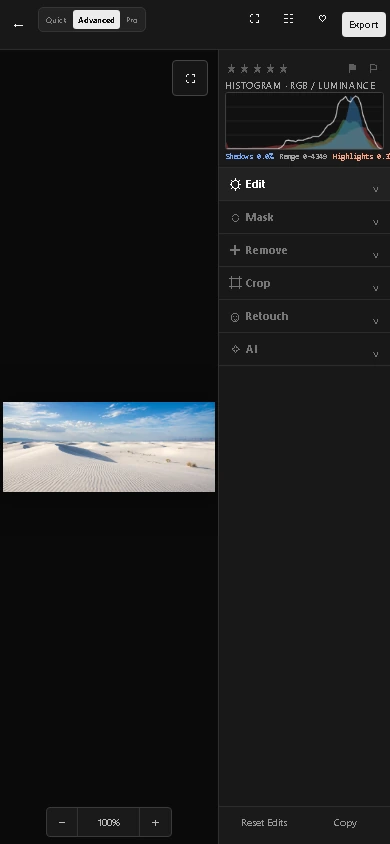
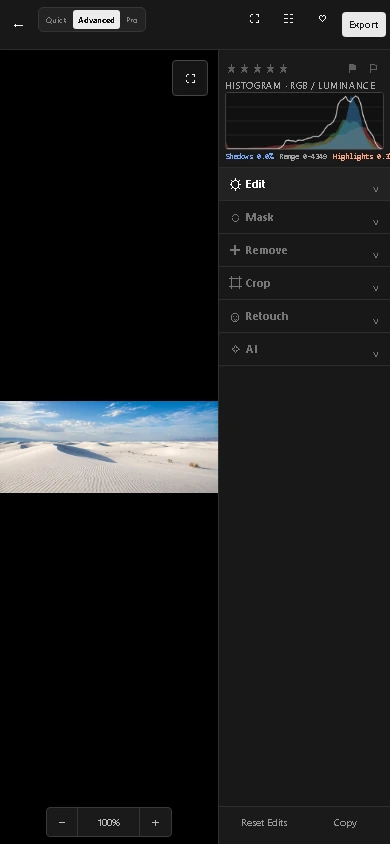
fix: make editor previews reliable in browser compositor

diff --git a/renderer.js b/renderer.js
@@ -8,7 +8,10 @@ async function decodeImage(blob){if(!blob)throw new Error('Photo data is unavail
 let renderFallbackNoticeFor=null;
 async function decodePhotoImage(blob){const primary=blob||photoBlob(currentPhoto);try{return await decodeImage(primary)}catch(primaryError){const fallback=currentPhoto?.thumbnailBlob;if(!fallback||fallback===primary)throw primaryError;try{const image=await decodeImage(fallback);if(renderFallbackNoticeFor!==currentPhoto?.id){renderFallbackNoticeFor=currentPhoto?.id;toast('Original preview unavailable — using the local thumbnail')}return image}catch{throw primaryError}}}
 function releaseImage(image){image?.close?.();if(image?.__darkroomObjectUrl)URL.revokeObjectURL(image.__darkroomObjectUrl)}
-function setEditorFallback(active){const stage=$('#photoViewport'),img=$('#editorFallbackImage');if(!stage||!img)return;stage.classList.toggle('preview-fallback',!!active);const source=photoBlob(currentPhoto);if(!active||!source){img.classList.remove('active');img.removeAttribute('src');img.dataset.photoId='';return}img.classList.add('active');if(img.dataset.photoId===currentPhoto.id)return;const photoId=currentPhoto.id;img.dataset.photoId=photoId;img.dataset.source='original';img.onerror=()=>{if(img.dataset.photoId!==photoId)return;if(img.dataset.source==='thumbnail'||!currentPhoto?.thumbnailBlob)return;img.dataset.source='thumbnail';img.src=blobUrl(currentPhoto,true)};img.src=blobUrl(currentPhoto,false)}
+function releaseRenderedPreview(img){if(img?._renderedUrl){URL.revokeObjectURL(img._renderedUrl);img._renderedUrl=''}}
+function setPreviewBackground(img,src){if(!img)return;if(src){img.style.backgroundImage=`url("${src}")`;img.style.backgroundSize='contain';img.style.backgroundPosition='center';img.style.backgroundRepeat='no-repeat';img.dataset.previewSrc=src}else{img.style.backgroundImage='none';img.dataset.previewSrc=''}}
+function setEditorFallback(active){const stage=$('#photoViewport'),img=$('#editorFallbackImage'),canvas=$('#editorCanvas');if(!stage||!img)return;stage.classList.toggle('preview-fallback',!!active);if(!active){releaseRenderedPreview(img);img.classList.remove('active');setPreviewBackground(img,'');img.dataset.photoId='';img.dataset.source='';if(canvas){canvas.style.removeProperty('visibility');canvas.style.removeProperty('background');delete canvas.dataset.renderedPreview}return}releaseRenderedPreview(img);if(canvas){canvas.style.visibility='hidden';canvas.style.background='transparent';delete canvas.dataset.renderedPreview}const source=photoBlob(currentPhoto);if(!source){img.classList.remove('active');setPreviewBackground(img,'');img.dataset.photoId='';return}img.classList.add('active');if(img.dataset.photoId===currentPhoto.id&&img.dataset.source==='original')return;const photoId=currentPhoto.id;img.dataset.photoId=photoId;img.dataset.source='original';setPreviewBackground(img,blobUrl(currentPhoto,false))}
+async function syncRenderedPreview(canvas){const stage=$('#photoViewport'),img=$('#editorFallbackImage'),photoId=currentPhoto?.id;if(!stage||!img||canvas?.id!=='editorCanvas'||!canvas.width||!canvas.height||!photoId)return;let blob=null;try{blob=await new Promise(resolve=>canvas.toBlob(resolve,'image/png'))}catch{}if(photoId!==currentPhoto?.id)return;releaseRenderedPreview(img);const src=blob?URL.createObjectURL(blob):canvas.toDataURL('image/png');if(blob)img._renderedUrl=src;const preload=new Image();preload.src=src;try{await preload.decode()}catch{}if(photoId!==currentPhoto?.id)return;img.dataset.photoId=photoId;img.dataset.source='rendered';setPreviewBackground(img,src);img.classList.add('active');stage.classList.remove('preview-fallback');canvas.dataset.renderedPreview='1';canvas.style.display='block';canvas.style.visibility='hidden';canvas.style.background='transparent';await new Promise(resolve=>requestAnimationFrame(()=>requestAnimationFrame(resolve)))}
 async function applySkyReplacement(source,e){if(!currentPhoto?.skyReplacementId)return source;const ref=photos.find(p=>p.id===currentPhoto.skyReplacementId);if(!ref)return source;const bmp=await decodeImage(photoBlob(ref)),sky=document.createElement('canvas');sky.width=source.width;sky.height=source.height;const sx=sky.getContext('2d',{alpha:false}),scale=Math.max(source.width/bmp.width,source.height/bmp.height),dw=bmp.width*scale,dh=bmp.height*scale;sx.drawImage(bmp,(source.width-dw)/2,(source.height-dh)/2,dw,dh);releaseImage(bmp);const ctx=source.getContext('2d',{alpha:false}),base=ctx.getImageData(0,0,source.width,source.height),sd=sx.getImageData(0,0,sky.width,sky.height).data,mask=DarkRoomEngine.smartMaskRaster(base.data,source.width,source.height,'sky'),opacity=DarkRoomEngine.clamp((e.skyReplacementOpacity??100)/100);for(let i=0;i<base.data.length;i+=4){const m=(mask.data[i/4]||0)/255*opacity;base.data[i]=DarkRoomEngine.mix(base.data[i],sd[i],m);base.data[i+1]=DarkRoomEngine.mix(base.data[i+1],sd[i+1],m);base.data[i+2]=DarkRoomEngine.mix(base.data[i+2],sd[i+2],m)}ctx.putImageData(base,0,0);return source}
 
 
@@ -32,8 +35,10 @@ function renderDiagnosticOverlay(){const overlay=$('#diagnosticOverlay'),base=$(
 
 function renderMaskOverlay(){const overlay=$('#maskOverlay'),base=$('#editorCanvas');if(!overlay||!base||!base.width)return;overlay.width=base.width;overlay.height=base.height;const x=overlay.getContext('2d'),mask=(currentPhoto?.localEdits||[]).find(m=>m.id===activeLocalId);x.clearRect(0,0,overlay.width,overlay.height);if(!mask||beforeMode||photoOnly)return;const w=Math.min(360,overlay.width),h=Math.max(1,Math.round(overlay.height*w/overlay.width)),small=document.createElement('canvas');small.width=w;small.height=h;const s=small.getContext('2d');s.drawImage(base,0,0,w,h);const src=s.getImageData(0,0,w,h).data,img=s.createImageData(w,h),palette={red:[235,65,90],green:[65,220,115],blue:[65,145,240],white:[240,240,240]},col=palette[localStorage.getItem('darkroom-mask-color')||'red']||palette.red;for(let yy=0;yy<h;yy++)for(let xx=0;xx<w;xx++){const i=(yy*w+xx)*4,r=src[i],g=src[i+1],b=src[i+2],l=(.2126*r+.7152*g+.0722*b)/255,v=DarkRoomEngine.maskValue(mask,xx/Math.max(1,w-1),yy/Math.max(1,h-1),r,g,b,l);img.data[i]=col[0];img.data[i+1]=col[1];img.data[i+2]=col[2];img.data[i+3]=Math.round(v*125)}s.putImageData(img,0,0);x.drawImage(small,0,0,overlay.width,overlay.height)}
 function drawMaskOverlay(){renderMaskOverlay()}
+const renderMaskOverlayBase=renderMaskOverlay;renderMaskOverlay=function(){renderMaskOverlayBase();const overlay=$('#maskOverlay'),mask=(currentPhoto?.localEdits||[]).find(m=>m.id===activeLocalId);overlay?.classList.toggle('has-content',!!mask&&!beforeMode&&!photoOnly)};
+const renderDiagnosticOverlayBase=renderDiagnosticOverlay;renderDiagnosticOverlay=function(){renderDiagnosticOverlayBase();const overlay=$('#diagnosticOverlay');overlay?.classList.toggle('has-content',!!diagnosticOverlay&&diagnosticOverlay!=='none'&&!photoOnly)};
 function updateCompositionOverlay(){const o=$('#compositionOverlay');if(!o)return;o.className='composition-overlay '+(compositionOverlay||'none')}
-function applyTransform(){const w=$('#canvasWrap');w.style.transform=`translate(${panX}px,${panY}px) scale(${zoom})`;$('#zoomLabel').textContent=Math.round(zoom*100)+'%'}
+function applyTransform(){const w=$('#canvasWrap');if(w)w.style.transform=zoom===1&&panX===0&&panY===0?'none':`translate(${panX}px,${panY}px) scale(${zoom})`;$('#zoomLabel').textContent=Math.round(zoom*100)+'%'}
 async function updateBeforeSplit(){const c=$('#beforeSplitCanvas'),range=$('#beforeSplitRange'),divider=$('#beforeSplitDivider');if(!c||!range||!divider)return;if(!beforeSplit||!currentPhoto){c.classList.remove('active');range.classList.add('hidden');divider.classList.add('hidden');return}const tmp=document.createElement('canvas');await renderCanvas(tmp,1400,true);const base=$('#editorCanvas');c.width=base.width;c.height=base.height;const x=c.getContext('2d',{alpha:false});x.drawImage(tmp,0,0,c.width,c.height);c.classList.add('active');range.classList.remove('hidden');divider.classList.remove('hidden');applyBeforeSplitClip()}
 function applyBeforeSplitClip(){const c=$('#beforeSplitCanvas'),d=$('#beforeSplitDivider');if(!c||!d)return;const p=Math.max(5,Math.min(95,beforeSplitPct));c.style.clipPath=`inset(0 ${100-p}% 0 0)`;d.style.left=p+'%'}
 function resetZoom(){zoom=1;panX=panY=0;applyTransform()}
@@ -52,7 +57,7 @@ renderCanvasNow=async function(canvas,maxSize=1400,forceOriginal=false){
     console.error('Render failed',error);
     if(photoId!==currentPhoto?.id)return;
     if(canvas?.id==='editorCanvas'&&await renderThumbnailFallback(canvas,maxSize)){
-      setEditorFallback(false);toast('Original preview unavailable — showing the local thumbnail');
+      await syncRenderedPreview(canvas);toast('Original preview unavailable — showing the local thumbnail');
     }else if(canvas?.id==='editorCanvas'){
       setEditorFallback(true);toast('Could not decode this image — showing the original preview');
     }
@@ -60,17 +65,17 @@ renderCanvasNow=async function(canvas,maxSize=1400,forceOriginal=false){
   }
   if(photoId!==currentPhoto?.id)return;
   if(forceOriginal||canvas?.id!=='editorCanvas'||!canvas.width||!canvas.height){
-    if(canvas?.id==='editorCanvas')setEditorFallback(false);
+    if(canvas?.id==='editorCanvas')await syncRenderedPreview(canvas);
     return;
   }
   const data=canvas.getContext('2d').getImageData(0,0,Math.min(canvas.width,160),Math.min(canvas.height,160)).data;
   let sum=0;for(let i=0;i<data.length;i+=4)sum+=data[i]+data[i+1]+data[i+2];
   if(sum<3*data.length/4){
     const recovered=await renderThumbnailFallback(canvas,maxSize);
-    if(recovered){setEditorFallback(false);toast('Preview is empty — showing the local thumbnail');return}
+    if(recovered){await syncRenderedPreview(canvas);toast('Preview is empty — showing the local thumbnail');return}
     toast('Preview is empty — showing the untouched photo');
     await renderCanvasNowBase(canvas,maxSize,true);
   }
-  setEditorFallback(false);
+  await syncRenderedPreview(canvas);
 }
 const renderCanvasStatusBase=renderCanvas;renderCanvas=function(canvas,maxSize=1400,forceOriginal=false){const status=$('#renderStatus');const isEditor=canvas?.id==='editorCanvas';if(isEditor&&status){status.classList.remove('hidden');status.textContent='Rendering preview…';canvas.setAttribute('aria-busy','true')}const result=renderCanvasStatusBase(canvas,maxSize,forceOriginal);return Promise.resolve(result).finally(()=>{if(isEditor&&status){status.classList.add('hidden');canvas.removeAttribute('aria-busy')}})};

diff --git a/styles.css b/styles.css
@@ -65,7 +65,7 @@
 #toolTabs.tool-accordion .tool-section-body .accordion:last-child{margin-bottom:0}
 #controls.hidden{display:none!important}
 @media(max-width:760px){.editor-panel{grid-template-rows:30px minmax(0,1fr) auto!important}#toolTabs.tool-accordion{height:auto!important;display:block!important}.tool-section-header{height:36px!important}}
-.editor-image-fallback{display:none;position:absolute;inset:0;width:100%;height:100%;object-fit:contain;pointer-events:none;background:#000;z-index:0}.editor-image-fallback.active{display:block}.canvas-wrap{position:relative;z-index:1}.editor-stage.preview-fallback #editorCanvas{visibility:hidden}
+.editor-image-fallback{display:none;position:absolute;inset:0;width:100%;height:100%;pointer-events:none;background:#000 center/contain no-repeat;z-index:0}.editor-image-fallback.active{display:block}.canvas-wrap{position:relative;z-index:1}.editor-stage.preview-fallback #editorCanvas{visibility:hidden}
 
 /* v7 professional workflow additions */
 .lut-tools,.layer-actions,.merge-grid{display:grid;grid-template-columns:1fr 1fr;gap:6px}.layer-swatch{background:linear-gradient(135deg,#707070,#303030)!important}.layer-actions{margin:8px 0}.quality-badge{position:absolute;left:7px;top:7px;z-index:4;background:rgba(0,0,0,.72);border:1px solid rgba(255,255,255,.25);border-radius:3px;padding:2px 5px;font-size:9px;color:#eee}.compare-view{position:fixed;inset:0;z-index:260;background:#090909;display:grid;grid-template-rows:48px minmax(0,1fr)}.compare-view header{display:flex;align-items:center;gap:12px;padding:0 14px;border-bottom:1px solid #333;background:#171717}.compare-view header span{color:#888;overflow:hidden;text-overflow:ellipsis;white-space:nowrap}.compare-view header button{margin-left:auto;border:1px solid #444;background:#242424;color:#ddd;border-radius:3px;padding:6px 10px}.compare-grid{min-height:0;display:grid;grid-template-columns:1fr 1fr;gap:1px;background:#333}.compare-grid figure{margin:0;min-width:0;min-height:0;background:#0c0c0c;display:grid;grid-template-rows:minmax(0,1fr) 44px;place-items:center}.compare-grid canvas{max-width:100%;max-height:calc(100vh - 94px);object-fit:contain}.compare-grid figcaption{align-self:stretch;width:100%;padding:10px;background:#171717;color:#a5a5a5;font-size:10px;text-align:center}.merge-grid button{border:1px solid #3b3b3b;background:#252525;color:#ddd;border-radius:3px;padding:10px;cursor:pointer}.merge-grid button:hover{background:#303030}
@@ -136,3 +136,11 @@
 @media(max-width:760px){.panel-header{min-height:106px!important;padding:5px 6px!important}.panel-header .histogram-block canvas{height:58px!important;min-height:58px}}
 @media(max-width:760px){.editor-panel{grid-template-rows:auto minmax(0,1fr) 0 38px!important}}
 .render-status{position:absolute;left:50%;top:50%;transform:translate(-50%,-50%);z-index:12;padding:8px 12px;border:1px solid #444;border-radius:5px;background:rgba(20,20,20,.9);color:#ddd;font-size:11px;pointer-events:none;box-shadow:0 8px 25px rgba(0,0,0,.35)}
+
+/* The rendered image layer is a reliable compositor surface on browsers that
+   occasionally capture a 2D canvas as black. Canvas-backed overlays remain above it. */
+.canvas-wrap>#editorCanvas{position:relative;z-index:0}
+#maskOverlay,#diagnosticOverlay{display:none}
+#maskOverlay.has-content,#diagnosticOverlay.has-content{display:block}
+.editor-stage .before-split-canvas{display:none}
+.editor-stage .before-split-canvas.active{display:block}

diff --git a/index.html b/index.html
@@ -143,8 +143,7 @@
     </header>
 
     <section id="photoViewport" class="editor-stage" aria-label="Zoomable photo viewport">
-      <img id="editorFallbackImage" class="editor-image-fallback" alt="" aria-hidden="true">
-      <div id="canvasWrap" class="canvas-wrap"><canvas id="editorCanvas"></canvas><canvas id="beforeSplitCanvas" class="before-split-canvas" aria-hidden="true"></canvas><canvas id="maskOverlay" class="mask-overlay" aria-hidden="true"></canvas><canvas id="diagnosticOverlay" class="diagnostic-overlay" aria-hidden="true"></canvas><div id="beforeSplitDivider" class="before-split-divider hidden"></div><div id="compositionOverlay" class="composition-overlay none"></div></div>
+      <div id="editorFallbackImage" class="editor-image-fallback" role="img" aria-label="Rendered photo preview" aria-hidden="true"></div><div id="canvasWrap" class="canvas-wrap"><canvas id="editorCanvas"></canvas><canvas id="beforeSplitCanvas" class="before-split-canvas" aria-hidden="true"></canvas><canvas id="maskOverlay" class="mask-overlay" aria-hidden="true"></canvas><canvas id="diagnosticOverlay" class="diagnostic-overlay" aria-hidden="true"></canvas><div id="beforeSplitDivider" class="before-split-divider hidden"></div><div id="compositionOverlay" class="composition-overlay none"></div></div>
       <input id="beforeSplitRange" class="before-split-range hidden" type="range" min="5" max="95" value="50" aria-label="Before and after split position" />
       <div id="paintHud" class="paint-hud hidden"><b>Local edit</b><span>Drag on photo · Esc to finish</span></div>
       <div id="renderStatus" class="render-status hidden" role="status" aria-live="polite">Rendering preview…</div>

diff --git a/tests/supplied_images_ux.py b/tests/supplied_images_ux.py
@@ -1,0 +1,197 @@
+from io import BytesIO
+from pathlib import Path
+import os
+
+from PIL import Image
+from playwright.sync_api import sync_playwright
+
+from browser_ux import boot
+
+
+ROOT = Path(__file__).resolve().parents[1]
+FIXTURES = ROOT / "tests" / "fixtures" / "photos"
+NAMES = ["photo-1.jpg", "photo-2.jpg", "photo-3.jpg"]
+
+
+def canvas_stats(page):
+    return page.evaluate(
+        """
+        () => {
+          const c = document.querySelector('#editorCanvas');
+          const d = c.getContext('2d').getImageData(0, 0, c.width, c.height).data;
+          const step = Math.max(4, Math.floor(d.length / 4000 / 4) * 4);
+          let sum = 0, colorful = 0, count = 0;
+          for (let i = 0; i < d.length; i += step) {
+            const r = d[i], g = d[i + 1], b = d[i + 2];
+            sum += r + g + b;
+            colorful += (r + g + b > 36) ? 1 : 0;
+            count++;
+          }
+          return { average: sum / Math.max(1, count) / 3, content: colorful / Math.max(1, count) };
+        }
+        """
+    )
+
+
+def screenshot_stats(blob):
+    image = Image.open(BytesIO(blob)).convert("RGB")
+    pixels = list(image.getdata())
+    content = sum(1 for r, g, b in pixels if r + g + b > 36)
+    mean = sum(r + g + b for r, g, b in pixels) / max(1, len(pixels)) / 3
+    return mean, content / max(1, len(pixels))
+
+
+def open_photo(page, name):
+    card = page.locator(".photo-card").filter(has=page.locator(f'img[alt="{name}"]'))
+    assert card.count() == 1, f"Missing library card for {name}"
+    card.click()
+    page.wait_for_selector("#editor:not(.hidden)")
+    page.wait_for_function(
+        "document.querySelector('#editorCanvas')?.width>10 && !document.querySelector('#editorCanvas')?.hasAttribute('aria-busy')",
+        timeout=15000,
+    )
+    page.wait_for_timeout(150)
+
+
+def close_editor(page):
+    page.click("#closeEditor")
+    page.wait_for_function("document.querySelector('#editor').classList.contains('hidden')")
+
+
+def check_visible_photo(page, name, label):
+    stats = canvas_stats(page)
+    assert stats["average"] > 5 and stats["content"] > 0.01, f"{label} canvas is blank for {name}: {stats}"
+    fallback = page.locator("#editorFallbackImage").evaluate("el => getComputedStyle(el).backgroundImage")
+    assert "blob:" in (fallback or ""), f"{label} compositor fallback is missing for {name}: {fallback}"
+    stage_mean, stage_content = screenshot_stats(page.locator("#photoViewport").screenshot())
+    assert stage_content > 0.01, f"{label} screenshot is blank for {name}: mean={stage_mean} content={stage_content}"
+    histogram = page.evaluate(
+        """
+        () => {
+          const c = document.querySelector('#histogramCanvas');
+          const d = c.getContext('2d').getImageData(0, 0, c.width, c.height).data;
+          let n = 0;
+          for (let i = 0; i < d.length; i += 16) n += d[i] + d[i + 1] + d[i + 2];
+          return n;
+        }
+        """
+    )
+    assert histogram > 0, f"{label} histogram did not render for {name}"
+    return {"canvas": stats, "stage": {"mean": stage_mean, "content": stage_content}}
+
+
+def run_desktop_interactions(page):
+    page.click('[data-mode="advanced"]')
+    if "open" not in (page.locator('[data-tool-section="edit"]').get_attribute("class") or ""):
+        page.click('[data-tool-toggle="edit"]')
+    if not page.locator('[data-section="light"] .accordion-body').is_visible():
+        page.locator('[data-section="light"] .accordion-head').click()
+
+    exposure = page.locator('[data-edit="exposure"]').first
+    exposure.evaluate("(el) => { el.value = '28'; el.dispatchEvent(new Event('input', {bubbles:true})); el.dispatchEvent(new Event('change', {bubbles:true})); }")
+    assert page.evaluate("currentPhoto.edits.exposure === 28")
+    saturation = page.locator('[data-edit="saturation"]').first
+    saturation.evaluate("(el) => { el.value = '-100'; el.dispatchEvent(new Event('input', {bubbles:true})); el.dispatchEvent(new Event('change', {bubbles:true})); }")
+    assert page.evaluate("currentPhoto.edits.saturation === -100")
+
+    if not page.locator('[data-section="curves"] .accordion-body').is_visible():
+        page.locator('[data-section="curves"] .accordion-head').click()
+    curve = page.locator("#toneCurveCanvas")
+    assert curve.is_visible() and (curve.bounding_box() or {}).get("width", 0) > 200
+    box = curve.bounding_box()
+    page.mouse.click(box["x"] + box["width"] * 0.62, box["y"] + box["height"] * 0.28)
+    page.wait_for_timeout(100)
+    assert page.evaluate("currentPhoto.edits.curvePoints.length >= 1")
+    page.click("#resetToneCurve")
+    page.wait_for_timeout(100)
+    assert page.evaluate("currentPhoto.edits.curvePoints.length === 0 && currentPhoto.edits.curveMidtones === 0")
+
+    page.click('[data-tool-toggle="masks"]')
+    page.click('[data-mask-new="brush"]')
+    canvas_box = page.locator("#editorCanvas").bounding_box()
+    page.mouse.move(canvas_box["x"] + canvas_box["width"] * 0.4, canvas_box["y"] + canvas_box["height"] * 0.4)
+    page.mouse.down()
+    page.mouse.move(canvas_box["x"] + canvas_box["width"] * 0.6, canvas_box["y"] + canvas_box["height"] * 0.55, steps=5)
+    page.mouse.up()
+    page.wait_for_timeout(80)
+    assert page.evaluate("currentPhoto.localEdits.some(m => m.strokes?.length >= 1)")
+
+    page.click('[data-tool-toggle="heal"]')
+    page.click("#newHeal")
+    canvas_box = page.locator("#editorCanvas").bounding_box()
+    page.mouse.move(canvas_box["x"] + canvas_box["width"] * 0.7, canvas_box["y"] + canvas_box["height"] * 0.5)
+    page.mouse.down()
+    page.mouse.move(canvas_box["x"] + canvas_box["width"] * 0.74, canvas_box["y"] + canvas_box["height"] * 0.54, steps=3)
+    page.mouse.up()
+    assert page.evaluate("currentPhoto.healOps.some(o => o.strokes?.length >= 1)")
+
+    page.click('[data-tool-toggle="transform"]')
+    if not page.locator("#autoCrop").is_visible():
+        page.locator('[data-section="crop"] .accordion-head').click()
+    page.click("#autoCrop")
+    page.wait_for_timeout(250)
+    assert page.evaluate("currentPhoto.edits.cropZoom >= 100")
+
+    page.click('[data-mode="pro"]')
+    page.click('[data-tool-toggle="layers"]')
+    if page.locator("#newAdjustmentLayer").is_visible():
+        page.click("#newAdjustmentLayer")
+        assert page.evaluate("currentPhoto.adjustmentLayers.length >= 1")
+
+
+def main():
+    out = ROOT / "test-output" / "supplied-images"
+    out.mkdir(parents=True, exist_ok=True)
+    results = {"desktop": {}, "mobile": {}}
+    with sync_playwright() as playwright:
+        launch = {"headless": True, "args": ["--no-sandbox", "--disable-dev-shm-usage"]}
+        if os.path.exists("/usr/bin/chromium"):
+            launch["executable_path"] = "/usr/bin/chromium"
+        browser = playwright.chromium.launch(**launch)
+        context = browser.new_context(viewport={"width": 1440, "height": 900}, service_workers="block")
+        page = context.new_page()
+        errors = []
+        page.on("pageerror", lambda error: errors.append(str(error)))
+        boot(page)
+        files = [{"name": name, "mimeType": "image/jpeg", "buffer": (FIXTURES / name).read_bytes()} for name in NAMES]
+        page.set_input_files("#fileInput", files)
+        page.wait_for_function("document.querySelectorAll('.photo-card').length === 3", timeout=15000)
+        assert page.evaluate("photos.length === 3 && photos.every(p => !!p.thumbnailBlob)")
+
+        for name in NAMES:
+            open_photo(page, name)
+            results["desktop"][name] = check_visible_photo(page, name, "desktop")
+            if name == NAMES[0]:
+                run_desktop_interactions(page)
+            close_editor(page)
+
+        page.set_viewport_size({"width": 390, "height": 844})
+        for name in NAMES:
+            open_photo(page, name)
+            geometry = page.evaluate(
+                """
+                () => {
+                  const photo = document.querySelector('#photoViewport').getBoundingClientRect();
+                  const tools = document.querySelector('.editor-panel').getBoundingClientRect();
+                  return {photoRight: photo.right, toolsLeft: tools.left, toolsWidth: tools.width};
+                }
+                """
+            )
+            assert geometry["toolsLeft"] >= geometry["photoRight"] - 2 and geometry["toolsWidth"] > 120, geometry
+            results["mobile"][name] = check_visible_photo(page, name, "mobile")
+            close_editor(page)
+
+        page.on("dialog", lambda dialog: dialog.accept())
+        page.click("#selectPhotosBtn")
+        page.locator(".photo-card").first.click()
+        page.click("#batchDelete")
+        page.wait_for_function("photos.length === 2")
+        assert page.locator(".photo-card").count() == 2
+        assert not errors, errors
+        print("Supplied image UX passed: 3 real JPEGs rendered and interacted with on desktop and mobile; histogram, tone curve, sliders, mask, retouch, crop, layers, and local delete verified.")
+        print(results)
+        browser.close()
+
+
+if __name__ == "__main__":
+    main()

diff --git a/tests/capture_readme.py b/tests/capture_readme.py
@@ -29,31 +29,12 @@ def page_with_photo(browser, filename, viewport):
     return context, page
 
 
-def save_capture(page, name):
+def save_capture(page, name, full_page=True):
     png = TMP / f"{name}.png"
     webp = OUT / f"{name}.webp"
     page.wait_for_timeout(750)
     page.evaluate("() => new Promise(resolve => requestAnimationFrame(() => requestAnimationFrame(resolve)))")
-    page.evaluate("() => document.querySelectorAll('canvas').forEach(canvas => canvas.toDataURL('image/png'))")
-    page.wait_for_timeout(150)
-    if name.startswith("editor"):
-        page.evaluate("""async()=>{
-          const canvas=document.querySelector('#editorCanvas');
-          const wrap=document.querySelector('#canvasWrap');
-          if(!canvas||!wrap)return;
-          const image=document.createElement('img');
-          image.className='readme-capture-image';
-          image.alt='';
-          image.src=canvas.toDataURL('image/png');
-          image.style.cssText='position:absolute;inset:0;width:100%;height:100%;object-fit:contain;pointer-events:none;z-index:20;background:#050505';
-          wrap.appendChild(image);
-          await image.decode();
-          canvas.dataset.readmeHidden='1';
-          canvas.style.visibility='hidden';
-        }""")
-    page.screenshot(path=str(png), full_page=True)
-    if name.startswith("editor"):
-        page.evaluate("""()=>{const image=document.querySelector('.readme-capture-image');if(image)image.remove();const canvas=document.querySelector('#editorCanvas');if(canvas?.dataset.readmeHidden){canvas.style.visibility='';delete canvas.dataset.readmeHidden}}""")
+    page.screenshot(path=str(png), full_page=full_page)
     with Image.open(png) as image:
         image.convert("RGB").save(webp, "WEBP", quality=92, method=6)
 
@@ -82,12 +63,12 @@ def main():
 
         context, page = page_with_photo(browser, "race-car.jpg", {"width": 1440, "height": 900})
         open_editor(page, "pro")
-        save_capture(page, "editor-desktop")
+        save_capture(page, "editor-desktop", full_page=False)
         context.close()
 
         context, page = page_with_photo(browser, "white-dunes.jpg", {"width": 390, "height": 844})
         open_editor(page, "advanced")
-        save_capture(page, "editor-mobile")
+        save_capture(page, "editor-mobile", full_page=False)
         context.close()
 
         context, page = page_with_photo(browser, "mountain-sunset.jpg", {"width": 1440, "height": 900})

diff --git a/tests/browser_ux.py b/tests/browser_ux.py
@@ -74,7 +74,7 @@ def main():
         page.click('[data-mode="advanced"]');page.click('[data-tool-toggle="retouch"]');page.wait_for_timeout(500)
         webp_avg=page.evaluate("()=>{const c=document.querySelector('#editorCanvas'),d=c.getContext('2d').getImageData(0,0,c.width,c.height).data;let n=0;for(let i=0;i<d.length;i+=Math.max(4,Math.floor(d.length/4000/4)*4))n+=d[i]+d[i+1]+d[i+2];return n/Math.max(1,d.length/Math.max(4,Math.floor(d.length/4000/4)*4))/3}")
         assert webp_avg>5, f'WebP preview unexpectedly black in Retouch: {webp_avg}'
-        page.evaluate("setEditorFallback(true)");assert page.locator('#editorFallbackImage').is_visible();assert page.locator('#editorFallbackImage').get_attribute('src');page.evaluate("setEditorFallback(false)");assert not page.locator('#editorFallbackImage').is_visible()
+        page.evaluate("setEditorFallback(true)");assert page.locator('#editorFallbackImage').is_visible();assert 'blob:' in (page.locator('#editorFallbackImage').evaluate("el=>getComputedStyle(el).backgroundImage") or '');page.evaluate("setEditorFallback(false)");assert not page.locator('#editorFallbackImage').is_visible()
         fallback_avg=page.evaluate("""async()=>{const original=currentPhoto.blob;currentPhoto.blob=new Blob([new Uint8Array([0,1,2,3])],{type:'image/webp'});await renderCanvas(document.querySelector('#editorCanvas'));const c=document.querySelector('#editorCanvas'),d=c.getContext('2d').getImageData(0,0,c.width,c.height).data;let n=0;for(let i=0;i<d.length;i+=Math.max(4,Math.floor(d.length/4000/4)*4))n+=d[i]+d[i+1]+d[i+2];const avg=n/Math.max(1,d.length/Math.max(4,Math.floor(d.length/4000/4)*4))/3;currentPhoto.blob=original;await renderCanvas(c);return avg}""")
         assert fallback_avg>5, f'WebP thumbnail fallback unexpectedly black: {fallback_avg}'
         sanitized_avg=page.evaluate("""async()=>{currentPhoto.edits={...currentPhoto.edits,gamma:NaN,curvePoints:[{x:.5,y:0},{x:.5,y:0}]};normalizePhoto(currentPhoto);await renderCanvas(document.querySelector('#editorCanvas'));const c=document.querySelector('#editorCanvas'),d=c.getContext('2d').getImageData(0,0,c.width,c.height).data;let n=0;for(let i=0;i<d.length;i+=Math.max(4,Math.floor(d.length/4000/4))){n+=d[i]+d[i+1]+d[i+2]}return n/Math.max(1,d.length/Math.max(4,Math.floor(d.length/4000/4)))/3}""")
